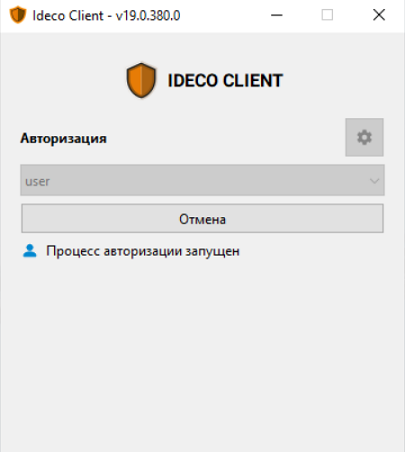
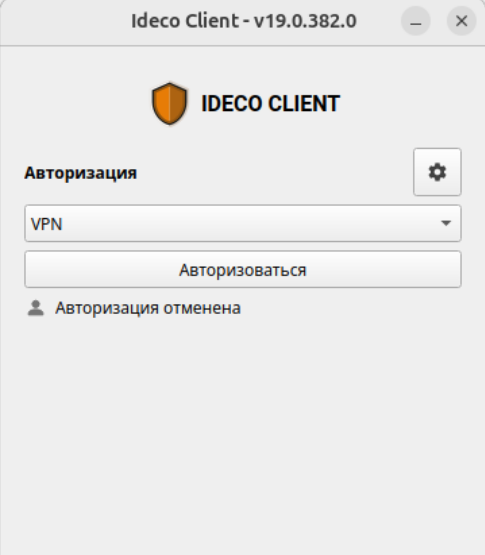
ICS-33161 УТМ. Добавить в ст-ю Ideco Client двухфакторную аутентификацию

diff --git a/settings/users/ideco-client/README.md b/settings/users/ideco-client/README.md
@@ -85,7 +85,9 @@ HIP-профили помогают реализовать ZTNA (Zero Trust Netw
 
  ![](/.gitbook/assets/ideco-client2.png)
 
-3\. Пройдите двухфакторную аутентификацию.
+3\. Введите код двухфакторной аутентификации:
+
+![](/.gitbook/assets/ideco-client9.png)
 
 </details>
 
